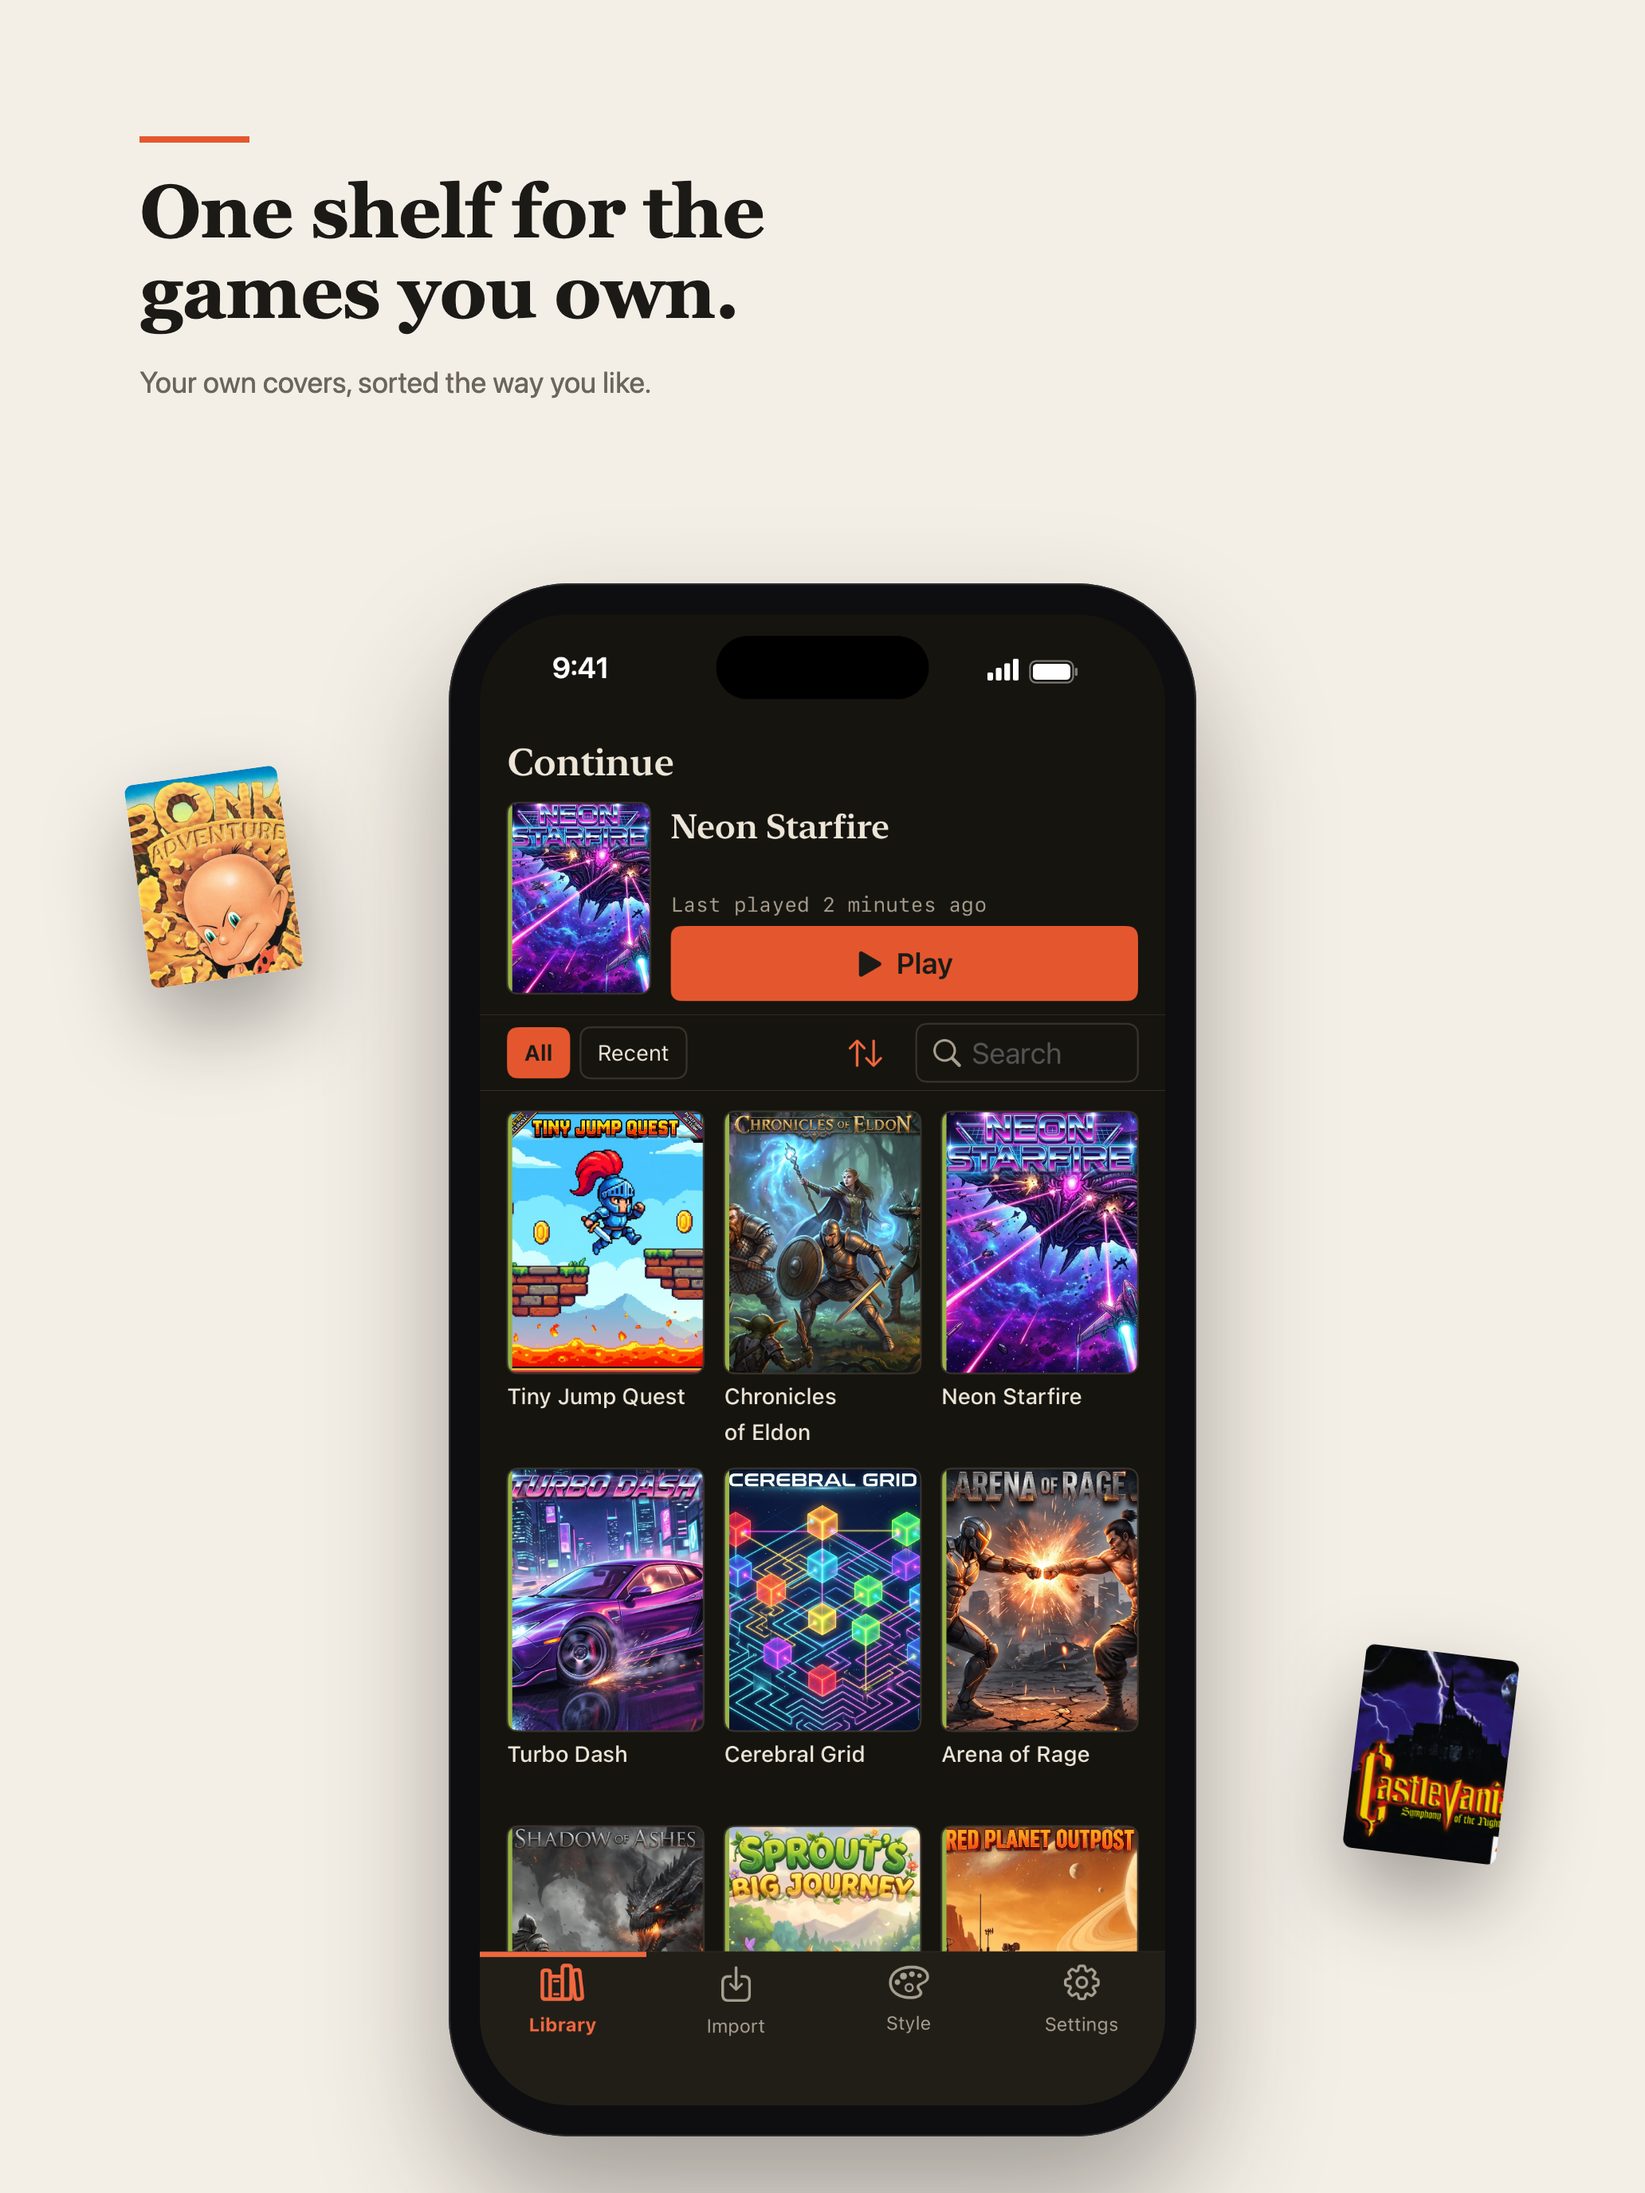
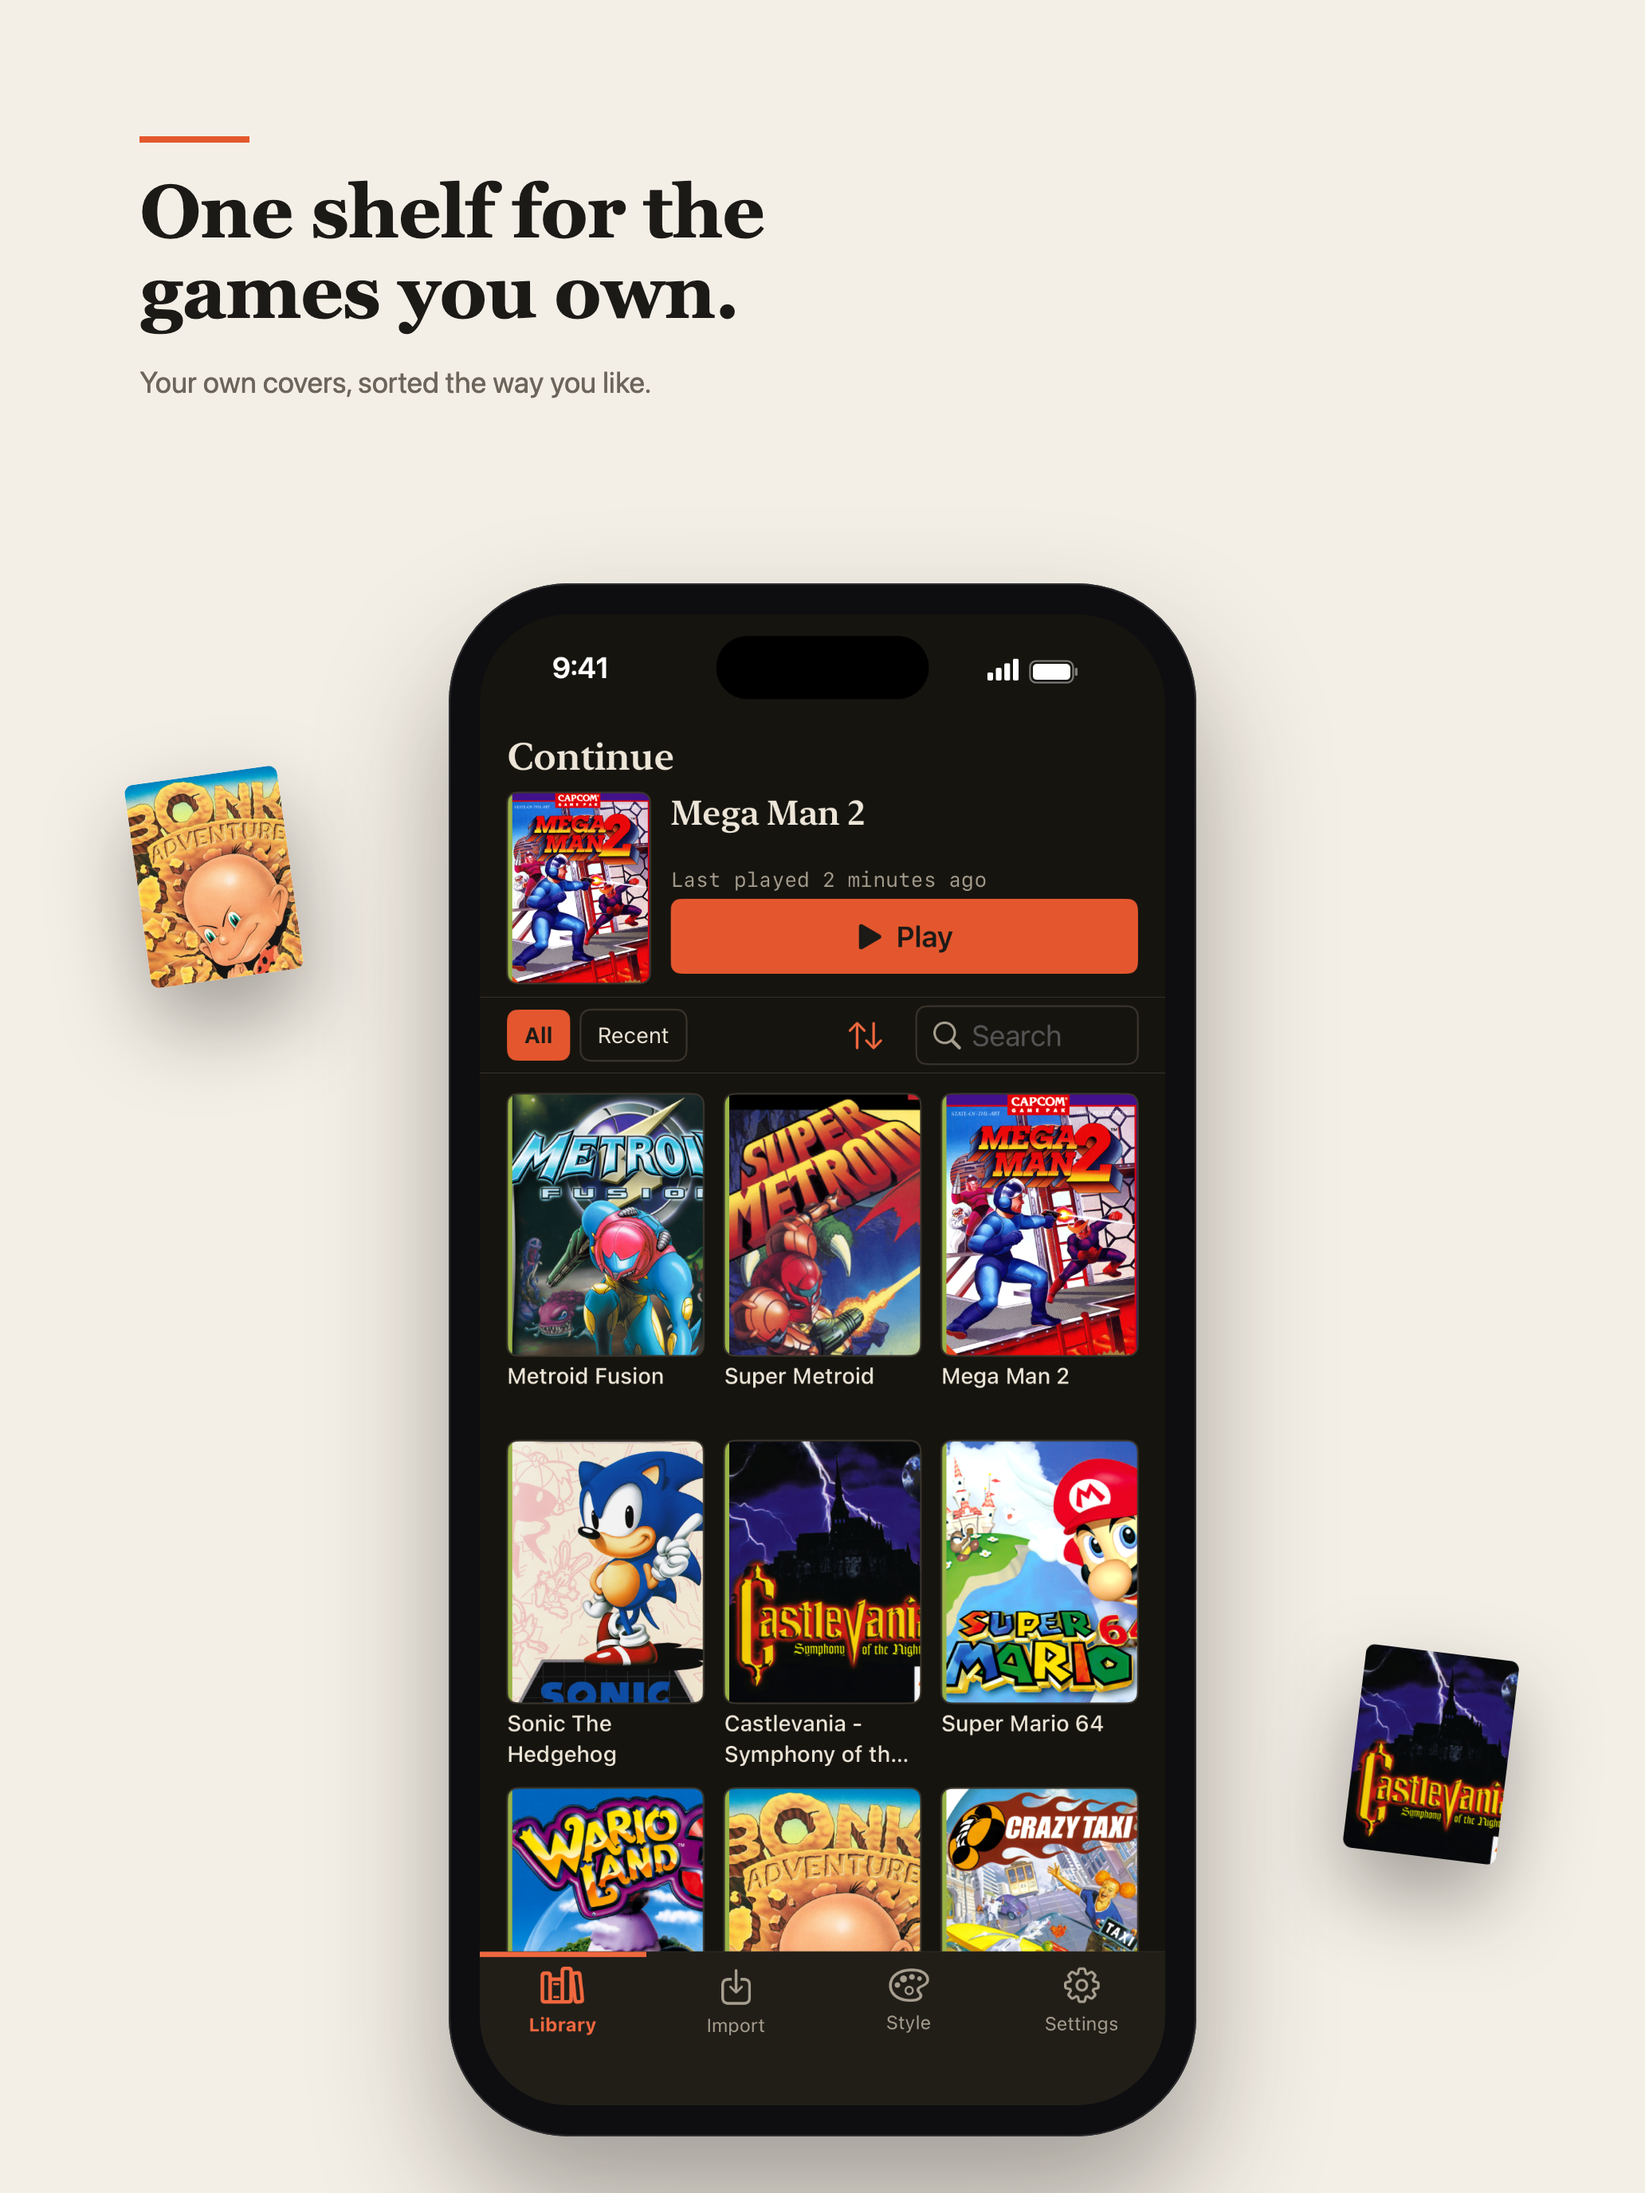
feat(store): Library screen with the real covers on the shelf, captured on the iPhone 17 simulator
testStoreShots ran on the iPhone 17 simulator (1206x2622, dark), seeded with the real covers. prep_screens.swift
takes an optional library-dy (-36 for the simulator) for its two painted areas. Only library.png is replaced;
shot 3 and the retention art are re-rendered.

Changed region(s): [[0.3101, 0.3438, 0.7132, 0.9375]]

diff --git a/scripts/store/prep_screens.swift b/scripts/store/prep_screens.swift
@@ -1,6 +1,9 @@
 // Turns the device captures of UITests testStoreShots into the screens the store render puts in its frames.
 //
-//     swift -O scripts/store/prep_screens.swift <captures-dir>
+//     swift -O scripts/store/prep_screens.swift <captures-dir> [library-dy]
+//
+// [library-dy] moves the Library's two painted areas up or down, in pixels: the iPhone 17 simulator draws that page
+// 36 px higher than the device (-36). Default 0, the device.
 //
 // <captures-dir> holds the walk's shots as 01.png ... 16.png (the number after "STORE"). Writes
 // design/store/screens/*.png. Each screen is the real capture with only these changes:
@@ -14,7 +17,8 @@ import ImageIO
 import UniformTypeIdentifiers
 
 let root = URL(fileURLWithPath: #filePath).deletingLastPathComponent().deletingLastPathComponent().deletingLastPathComponent()
-guard CommandLine.arguments.count == 2 else { print("usage: prep_screens.swift <captures-dir>"); exit(2) }
+guard (2...3).contains(CommandLine.arguments.count) else { print("usage: prep_screens.swift <captures-dir> [library-dy]"); exit(2) }
+let libraryDY = CommandLine.arguments.count == 3 ? Int(CommandLine.arguments[2])! : 0
 let caps = URL(fileURLWithPath: CommandLine.arguments[1])
 let art = root.appendingPathComponent("design/store/source")
 let out = root.appendingPathComponent("design/store/screens")
@@ -173,8 +177,8 @@ func upright(_ b: Bitmap) -> Bitmap {
 // Library: no system chip, no details line on the Continue card.
 var library = cap(1)
 statusBar(&library)
-cover(&library, 330, 428, 530, 482, sample: (322, 455))
-cover(&library, 374, 716, 524, 826, sample: (364, 700))
+cover(&library, 330, 428 + libraryDY, 530, 482 + libraryDY, sample: (322, 455 + libraryDY))
+cover(&library, 374, 716 + libraryDY, 524, 826 + libraryDY, sample: (364, 700 + libraryDY))
 save(library, "library.png")
 
 // Playing upright: the touch controls below the game.
